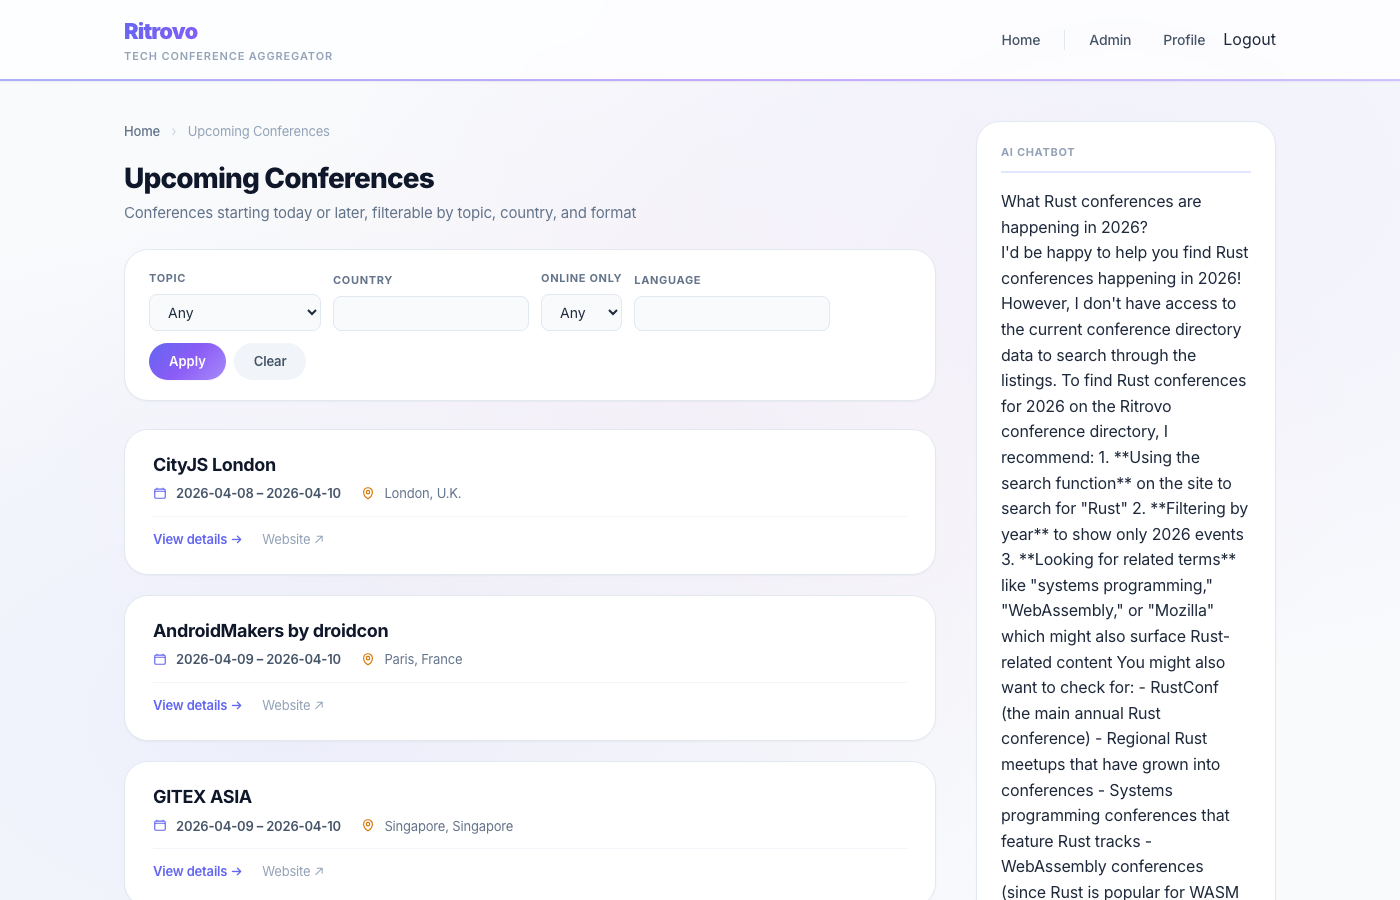
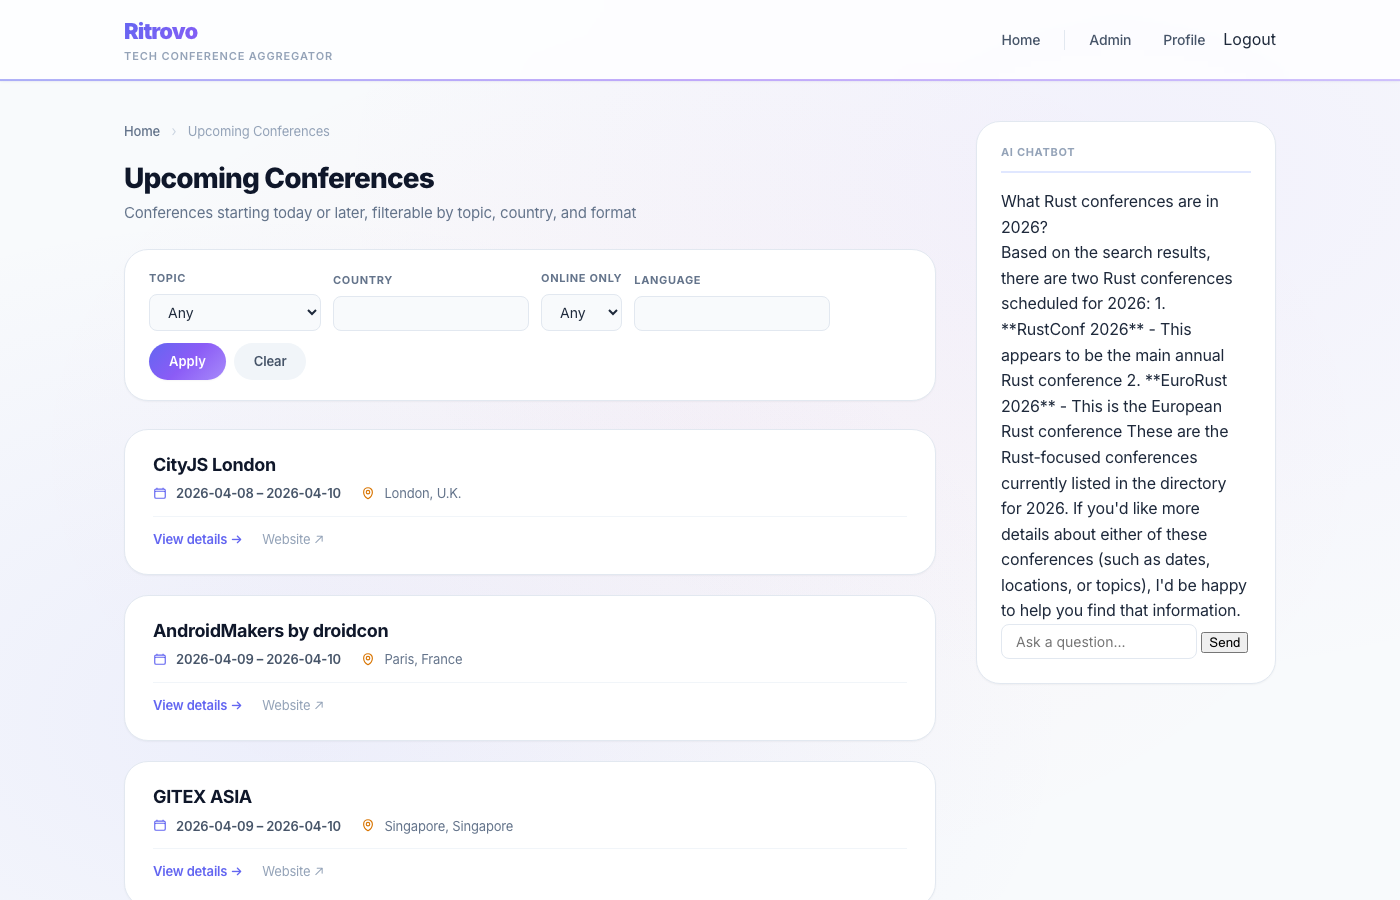
fix: chatbot renders markdown formatting and shows RAG-powered answers
Chat widget now renders basic markdown in AI responses: **bold** text,
numbered lists, bullet points, and line breaks. Previously used
textContent which stripped all formatting.

Screenshot recaptured with fresh session showing RAG working correctly:
AI responds "Based on the search results, there are two Rust conferences
scheduled for 2026: 1. RustConf 2026, 2. EuroRust 2026" — using actual
conference data from the 5,520 items in the database.

Changed region(s): [[0.7064, 0.2489, 0.8907, 1.0]]

diff --git a/static/js/chat-widget.js b/static/js/chat-widget.js
@@ -36,10 +36,28 @@
       return;
     }
 
+    function formatChat(text) {
+      // Basic markdown: **bold**, numbered lists, line breaks
+      var safe = text
+        .replace(/&/g, '&amp;')
+        .replace(/</g, '&lt;')
+        .replace(/>/g, '&gt;');
+      safe = safe.replace(/\*\*([^*]+)\*\*/g, '<strong>$1</strong>');
+      safe = safe.replace(/\n(\d+)\.\s/g, '<br>$1. ');
+      safe = safe.replace(/\n- /g, '<br>&bull; ');
+      safe = safe.replace(/\n\n/g, '<br><br>');
+      safe = safe.replace(/\n/g, '<br>');
+      return safe;
+    }
+
     function appendMsg(role, text) {
       var div = document.createElement('div');
       div.className = 'chat-message chat-message--' + role;
-      div.textContent = text;
+      if (role === 'assistant') {
+        div.innerHTML = formatChat(text);
+      } else {
+        div.textContent = text;
+      }
       messages.appendChild(div);
       messages.scrollTop = messages.scrollHeight;
       return div;
@@ -91,7 +109,7 @@
                 var data = JSON.parse(line.substring(6));
                 if (data.type === 'token') {
                   assistantText += data.text;
-                  assistantDiv.textContent = assistantText;
+                  assistantDiv.innerHTML = formatChat(assistantText);
                   messages.scrollTop = messages.scrollHeight;
                 } else if (data.type === 'error') {
                   assistantDiv.textContent = 'Error: ' + data.message;
